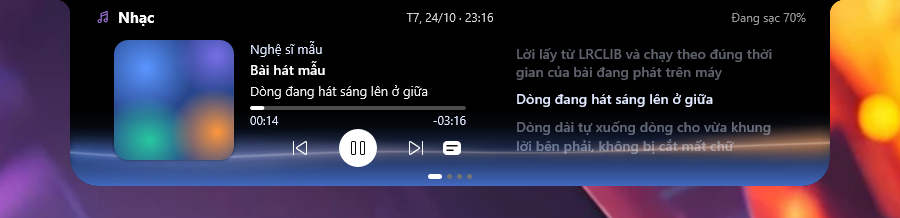
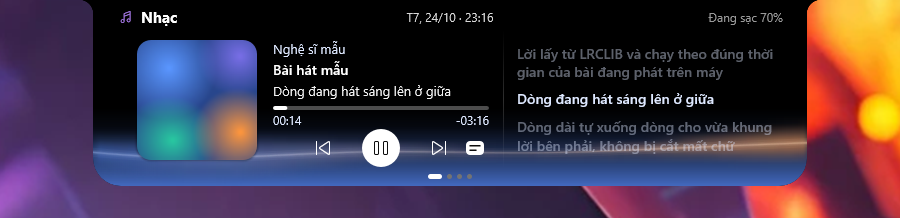
feat(music): trang lời gọn lại (bảng 760 -> 714 px, cột lời ngay sau nút điều khiển), đường kẻ dọc mờ hai đầu ngăn player và lời; ảnh README theo bố cục mới

Changed region(s): [[0.0622, 0.0, 0.84, 0.8532], [0.4667, 0.0, 0.9333, 0.8532], [0.56, 0.3028, 0.8089, 0.3853]]

diff --git a/src/render.rs b/src/render.rs
@@ -374,11 +374,13 @@ const BANNER_IMAGE_GAP: f32 = 10.0;
 const BANNER_IMAGE_PX: (f32, f32) = (2.0 * BANNER_IMAGE_W, 2.0 * BANNER_IMAGE_H);
 /// A line of lyrics: wraps onto more lines instead of being cut short.
 const F_LYRIC: usize = 10;
-/// Lyrics area beside the player, logical px: its top and bottom in the panel, and its width.
+/// Lyrics area beside the player, logical px: its top and bottom in the panel, the space each side
+/// of the thin divider after the player's controls, its right margin and its width.
 const LYRIC_TOP: f32 = 30.0;
 const LYRIC_BOTTOM: f32 = 168.0;
-const LYRIC_GAP: f32 = 6.0;
-const LYRIC_W: f32 = LYRICS_EXTRA_W - LYRIC_GAP - SIDE;
+const LYRIC_GAP: f32 = 14.0;
+const LYRIC_RIGHT: f32 = 30.0;
+const LYRIC_W: f32 = LYRICS_EXTRA_W + SIDE - 2.0 * LYRIC_GAP - LYRIC_RIGHT;
 
 pub const ICON_VOLUME: &str = "\u{E767}";
 pub const ICON_MUTE: &str = "\u{E74F}";
@@ -494,8 +496,7 @@ fn luminance(r: f32, g: f32, b: f32) -> f32 {
 
 /// The cover's shadow: strokes of growing width centred on its edge (the inner half hides under the
 /// cover), with the darkness of each from the narrowest out, and the step in px.
-const COVER_SHADOW: [f32; 3] = [0.14, 0.09, 0.05];
-const COVER_SHADOW_STEP: f32 = 0.8;
+const COVER_SHADOW: [f32; 3] = [0.14, 0.09, 0.05];const COVER_SHADOW_STEP: f32 = 0.8;
 
 /// Brightest the glow may get at the bottom of the panel: white text on it stays above 4.5:1.
 const GLOW_MAX_LUM: f32 = 0.17;
@@ -1801,8 +1802,19 @@ impl Renderer {
                             let grow = ((v.size[0] - player_w) / LYRICS_EXTRA_W).clamp(0.0, 1.0);
                             if grow > 0.02 {
                                 let appear = grow * grow * (3.0 - 2.0 * grow);
-                                let (x0, y0, y1) = (l + (player_w + LYRIC_GAP) * s, LYRIC_TOP * s, LYRIC_BOTTOM * s);
+                                // Right after the controls, past a thin divider.
+                                let divider = l + (player_w - SIDE + LYRIC_GAP) * s;
+                                let (x0, y0, y1) = (divider + LYRIC_GAP * s, LYRIC_TOP * s, LYRIC_BOTTOM * s);
                                 let x1 = x0 + LYRIC_W * s;
+                                // Fading out at both ends.
+                                let peak = 0.18 * a * appear;
+                                let stops = rt.CreateGradientStopCollection(&[
+                                    D2D1_GRADIENT_STOP { position: 0.0, color: grey(1.0, 0.0) },
+                                    D2D1_GRADIENT_STOP { position: 0.5, color: grey(1.0, peak) },
+                                    D2D1_GRADIENT_STOP { position: 1.0, color: grey(1.0, 0.0) },
+                                ], D2D1_GAMMA_2_2, D2D1_EXTEND_MODE_CLAMP)?;
+                                let down = D2D1_LINEAR_GRADIENT_BRUSH_PROPERTIES { startPoint: Vector2 { X: divider, Y: y0 }, endPoint: Vector2 { X: divider, Y: y1 } };
+                                rt.FillRectangle(&rect(divider, y0, divider + 1.0 * s, y1), &rt.CreateLinearGradientBrush(&down, None, &stops)?);
                                 match v.music {
                                     Some(t) if !lyric_heights.is_empty() => {
                                         let tops = lyrics::tops(&lyric_heights, 8.0 * s);

diff --git a/src/notch.rs b/src/notch.rs
@@ -48,8 +48,9 @@ pub fn alert_size(lines: u8) -> [f32; 3] {
     [420.0, BANNER_TEXT_TOP + n * BANNER_LINE_H + 7.0, 24.0]
 }
 
-/// Extra width of the open panel while the lyrics show beside the player.
-pub const LYRICS_EXTRA_W: f32 = 320.0;
+/// Extra width of the open panel while the lyrics show beside the player. The lyrics take the
+/// player's right margin (its page arrow hides meanwhile), so this is less than their width.
+pub const LYRICS_EXTRA_W: f32 = 274.0;
 
 /// Window must fit the largest target plus the hover margin.
 /// Includes room for the spring overshoot and the ears.
